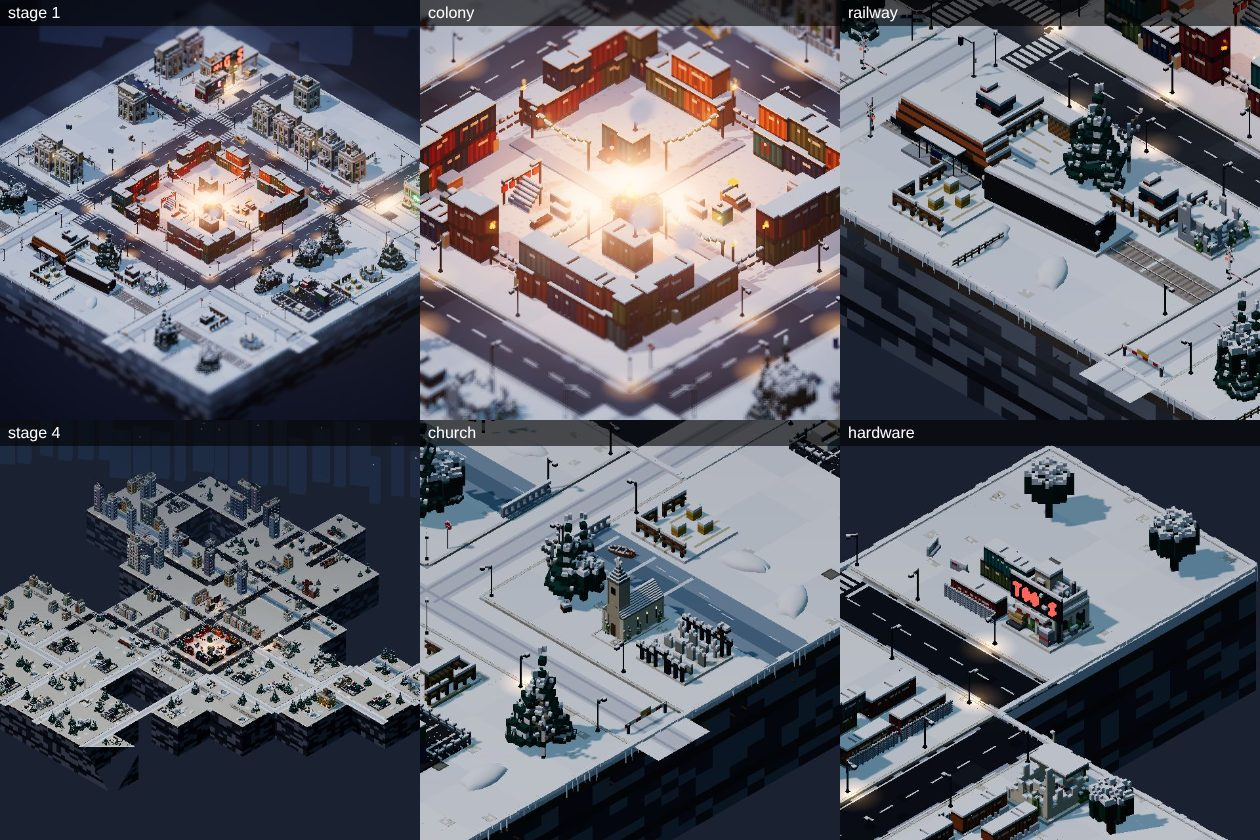
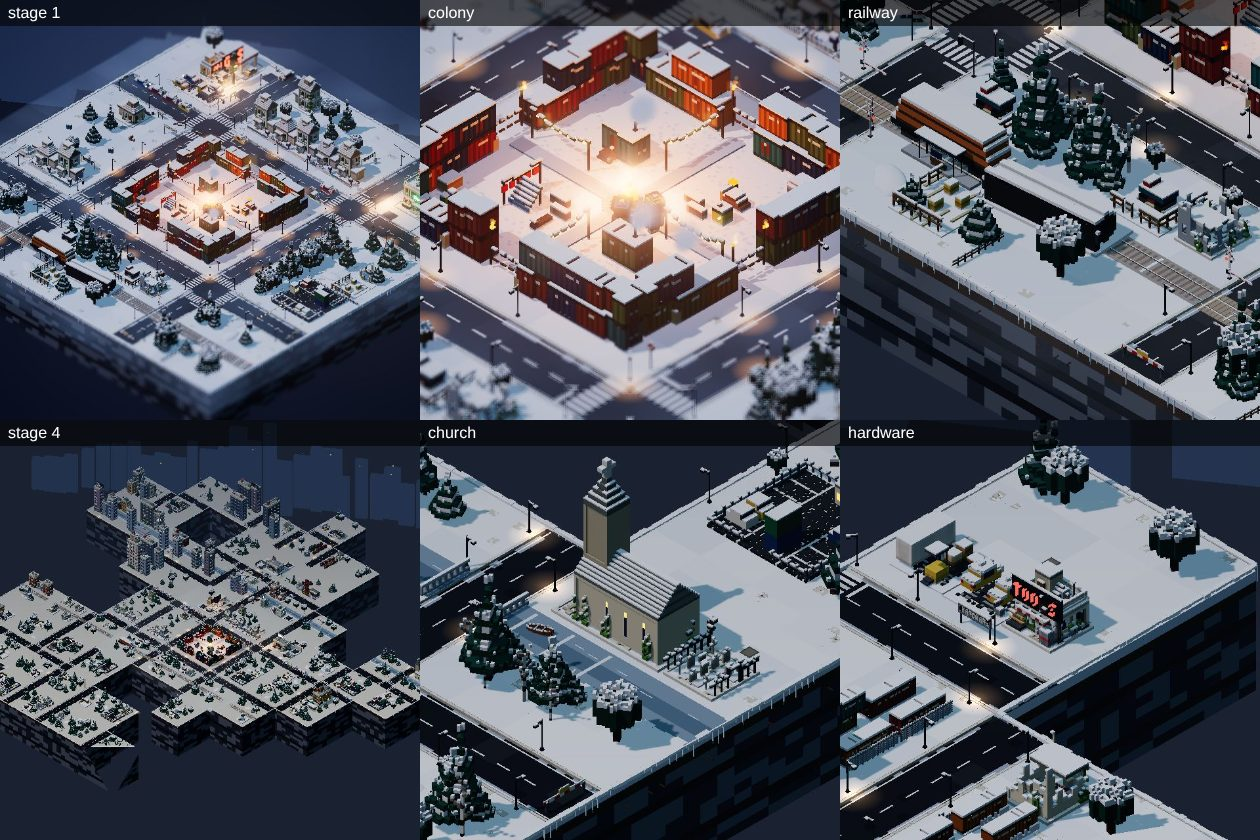
MAP-10: more trees outside the woods (open chunks, yards, field edges, street trees)
Claude-Session: https://claude.ai/code/session_01QukSoSL7rSXNw6vdcpJ2RK

diff --git a/src/render/board.js b/src/render/board.js
@@ -385,18 +385,24 @@ export function blockPieces(b, bx, bz, plan, recipe = null, district = null) {
     const r = hash3(bx * 11 + j, 79 + i, bz * 11 + i);
     // MAP-7: the outskirts are land: woods in clumps, small fields, a frozen pond, drifts.
     if (district === 'outskirts') {
-      if (i === 0) { if (r < 0.4) out.push([i, j, 'clump', 1]); else if (r < 0.7) out.push([i, j, 'drift', 1]); continue; } // MAP-9: fields and ponds lie behind
-      if (r < 0.3) out.push([i, j, 'clump', 1]);
-      else if (r < 0.48) out.push([i, j, 'field', 1]);
-      else if (r < 0.56 && !out.some((o) => o[2] === 'pond')) out.push([i, j, 'pond', 1]);
-      else if (r < 0.8) out.push([i, j, 'drift', 1]);
+      // MAP-10: more trees — a clump, a lone tree, or a drift; almost no bare chunk.
+      if (i === 0) { if (r < 0.4) out.push([i, j, 'clump', 1]); else if (r < 0.65) out.push([i, j, 'tree', 1]); else if (r < 0.85) out.push([i, j, 'drift', 1]); continue; } // MAP-9: fields and ponds lie behind
+      if (r < 0.32) out.push([i, j, 'clump', 1]);
+      else if (r < 0.5) out.push([i, j, 'field', 1]);
+      else if (r < 0.58 && !out.some((o) => o[2] === 'pond')) out.push([i, j, 'pond', 1]);
+      else if (r < 0.78) out.push([i, j, 'tree', 1]);
+      else if (r < 0.92) out.push([i, j, 'drift', 1]);
       continue;
     }
     // MAP-6: benches only in parks and squares; the outskirts are wooded.
     const square = (b.kind === 'park' || b.kind === 'plaza') && district !== 'outskirts';
     if (square && r < 0.14) out.push([i, j, 'bench', 1]);
-    else if (r < (b.kind === 'park' || district === 'outskirts' ? 0.6 : 0.3)) out.push([i, j, 'tree', 1]);
-    else if (district === 'outskirts' && r < 0.8) out.push([i, j, 'drift', 1]); // MAP-6: deep drifts out of town
+    else {
+      // MAP-10: trees cover the open ground in town too (parks most, residential well, downtown some, industrial a few);
+      // with a district, a third of them are a group of three.
+      const base = b.kind === 'park' ? 0.75 : district === 'residential' ? 0.6 : district === 'downtown' ? 0.45 : district === 'industrial' ? 0.3 : 0.3;
+      if (r < base) out.push([i, j, district && r < base * 0.33 ? 'trees' : 'tree', 1]);
+    }
   }
   return out;
 }
@@ -821,7 +827,11 @@ export function createBoard({ progressive = false } = {}) {
             if (isRows && district === 'residential' && (i === 0 || backRow)) put(fences.picket, p.clone().addScaledVector(plan.fwd, (backRow ? -1 : 1) * (CHUNK / 2 - 0.25)), face0);
             continue;
           }
-          if (what === 'alley') { if (r2 < 0.5) put(clutter[Math.floor(r2 * 8) % (CLUTTER_KINDS - 1)], p, face); continue; }
+          if (what === 'alley') {
+            if (r2 < 0.5) put(clutter[Math.floor(r2 * 8) % (CLUTTER_KINDS - 1)], p, face);
+            if (r2 > 0.3 && district !== 'industrial') put(trees[Math.floor(r2 * 7) % 3], p.clone().add(new THREE.Vector3((r2 - 0.5) * 2.2, 0, (hash3(i, j, bx) - 0.5) * 2.2)), r2 * 6, 0.65 + r2 * 0.3); // MAP-10: a tree in the yard
+            continue;
+          }
           if (what === 'camp' || what === 'laundry') { courts.push({ p, face, what }); continue; }
           if (what === 'house' && district === 'outskirts') { // MAP-6: a cottage facing the road, its garden behind
             const dead = hash3(bx + j, 101, bz + i) < 0.25; // MAP-7: one in four abandoned
@@ -856,6 +866,7 @@ export function createBoard({ progressive = false } = {}) {
             }
           } else if (what === 'field' || what === 'pond') {
             const v = what === 'pond' ? 0 : Math.floor(r2 * 3);
+            if (hash3(bx + j, 125, bz + i) < 0.55) { const a = hash3(i, j, 127) * 6.28; put(trees[Math.floor(r2 * 5) % 3], p.clone().add(new THREE.Vector3(Math.cos(a) * 2.4, 0, Math.sin(a) * 2.4)), a, 0.6 + r2 * 0.35); } // MAP-10: a tree at the field's edge
             pushT((big[`b7-${what}-${v}`] ??= { make: () => (what === 'pond' ? city.pondPiece() : city.fieldPiece(v)), list: [] }).list, matrixAt(p, face0 + Math.floor(r2 * 4) * (Math.PI / 2), city.SMALL_SCALE), null);
           } else if (what === 'trees') {
             for (let k = 0; k < 3; k++) {
@@ -1080,13 +1091,13 @@ export function createBoard({ progressive = false } = {}) {
         if (!ground(x, z) || near(x, z, nodes, 11) || near(x, z, lamps, 1.6)) continue;
         const h = hash3(Math.round(t), ri, rail.look + 13);
         const zoneHere = districtOf(gridOf(x), gridOf(z), map.look);
-        let kind = zoneHere === 'outskirts' ? (h < 0.2 ? 'postbox' : null) // MAP-6: the outskirts have no city furniture
+        let kind = zoneHere === 'outskirts' ? (h < 0.15 ? 'postbox' : null) // MAP-6: the outskirts have no city furniture
           : h < 0.3 ? 'hydrant' : h < 0.5 ? 'bin' : h < 0.6 ? 'postbox' : h < 0.7 ? 'newsbox' : h < 0.74 ? 'phone' : h < 0.86 ? 'busstop' : null;
         const aveRun = r.axis === ave.axis && Math.abs(r.c - ave.c) < 0.01;
         if (kind === 'busstop') { if (busStop || !aveRun) kind = 'bin'; else busStop = true; } // the bus route runs on the avenue
         const [dx, dz] = r.axis === 'x' ? [0, -1] : [-1, 0];
         if (kind) add(`furn-${kind}`, () => furnitureModel(kind), 0.1, x, GROUND, z, yawTo(dx, dz));
-        else if (zoneHere === 'residential' && !taken(x, z, 1)) add('tree-street', () => treeModelHD(2, 0), 0.16, x, GROUND, z, h * 9, 0, 'x', true); // MAP-9: street trees
+        else if ((zoneHere === 'residential' || zoneHere === 'outskirts' || (zoneHere === 'downtown' && h > 0.93)) && !taken(x, z, 1)) add('tree-street', () => treeModelHD(2, 0), 0.16, x, GROUND, z, h * 9, 0, 'x', true); // MAP-9/10: street trees (downtown a few)
         // Street clutter (cones, crates, barrels, bags, barriers) halfway between furniture spots, same side.
         const tc = t + 4.5; const [cx, cz] = r.axis === 'x' ? [tc, r.c + lat] : [r.c + lat, tc];
         const hc = hash3(Math.round(tc), ri, rail.look + 19);

diff --git a/docs/rework-plan.md b/docs/rework-plan.md
@@ -537,3 +537,8 @@ hand from the Actions tab). One-time setup: Settings → Pages → Source: GitHu
 - Outskirts: cottages only in the front row (facing the road), woods behind them; front-row open chunks are woods or drifts, fields and ponds lie behind.
 - Residential sidewalks get street trees between the furniture.
 - Pack 4.23 MB gzip (limit raised to 4.3 MB; leaving the cottages' or fields' close-up level out of the pack made the start build them, a 90 ms step, since the default zoom shows the close-up level). Stage 1 0.56 M, stage 4 0.65 M triangles, ≤ 275 draw calls, build step 8 ms; entry 162.8 KB; audit 0; 173 tests.
+
+### MAP-10 — more trees outside the woods (done)
+- Open chunks in town take a tree far more often (parks 75%, residential 60%, downtown 45%, industrial 30%), a third of them as a group of three; courtyard alleys in town blocks get a yard tree; fields get a tree at their edge; outskirts front-row chunks are a clump, a lone tree or a drift, back chunks gain lone trees between fields, ponds and drifts.
+- Street trees on residential and outskirts sidewalks, and a few downtown.
+- Stage 1 0.63 M, stage 4 0.72 M triangles (budget 1.3 / 1.6 M), ≤ 291 draw calls; pack 4.22 MB; audit 0; 173 tests.
